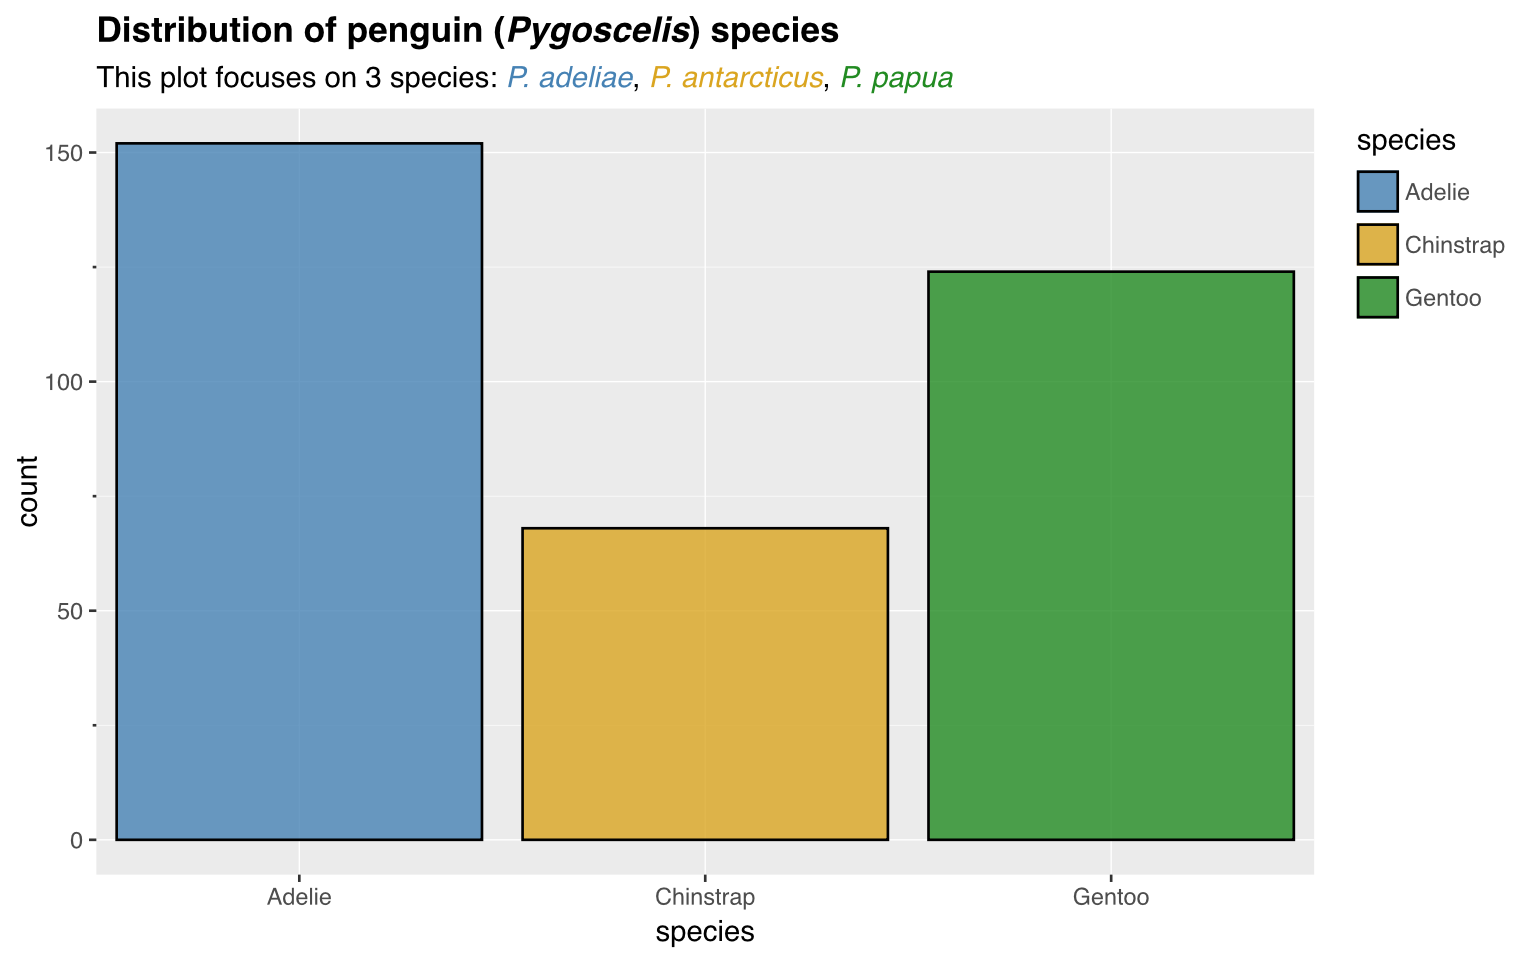
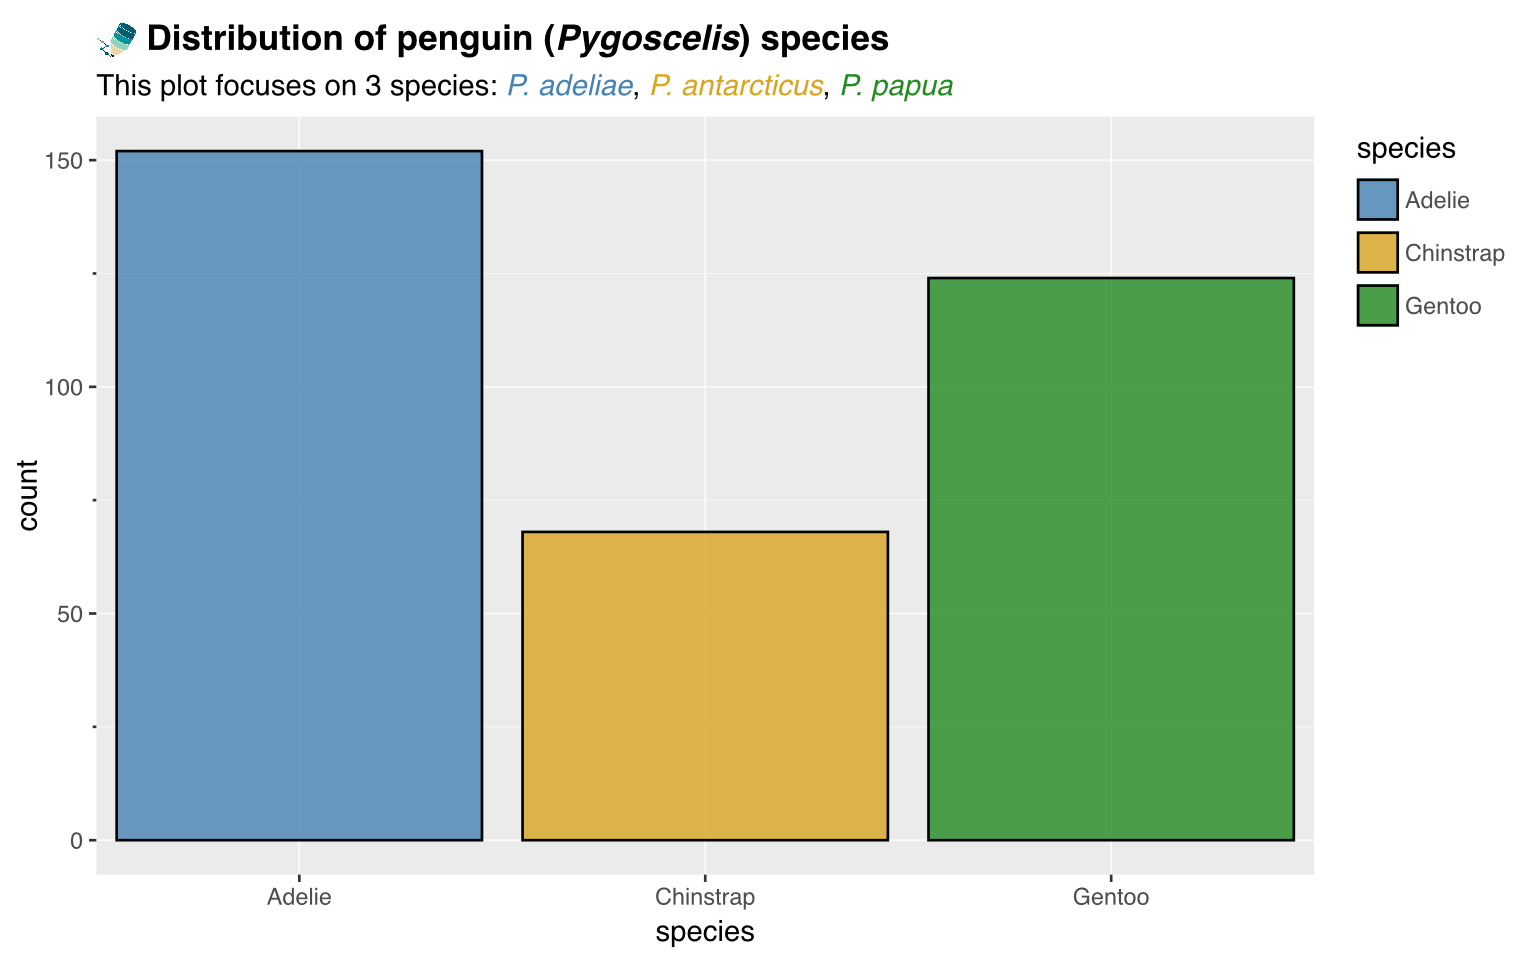
small fixes

diff --git a/content/blog/ggsql_0_5_0/index.md b/content/blog/ggsql_0_5_0/index.md
@@ -83,11 +83,12 @@ Text is important in data visualizations. This position should come as no surpri
 By default, markdown parsing is turned on in all titles and labels, but not in break values. Once we settle on a theming system this will all be configurable, though. Lastly, markdown parsing can also be turned on for the text layer by setting `parse => true`. The markdown is heavily inspired by the flavor I developed in the R marquee package. This means that everything you expect from standard markdown is available, plus a number of enhanced features:
 
 - *Italic* (`*`), **Bold** (`**`), <u>Underline</u> (`_`), <span data-text-decoration="line-through">Strikethrough</span> (`~~`), <sub>Subset</sub> (`~`), <sup>Superset</sup> (`^`), `code` (`` ` ``), [Links](#rich-text-support-through-extended-markdown) (`[text](url)`)
-- Headings 1-6 (`#` - `######`)
+- Headings 1 --- 6 (`#` --- `######`)
 - Quote (`>`)
 - Code block (```` ``` ````)
 - Bullet lists and numbered lists (`-` or `*` for former, `1.` for latter)
 - Horizontal lines (`* * *`)
+- Images (`![alt text](url)`)
 
 From marquee it gains the support for ad-hoc coloring and sizing through the custom span syntax: `{.red I'm colored red}` and `{#0000FF I'm colored blue}` allows for named and hex-encoded colors to be set on a piece of text, and `{.40 I have big letters}` lets you set a font size on the fly. The customization provided by the writer goes even deeper but again, the bottleneck right now is the theming system, not the renderer. Let's see it all in action:
 
@@ -96,7 +97,7 @@ VISUALIZE species AS fill, species AS x FROM ggsql:penguins
 DRAW bar
 SCALE fill TO ('steelblue', 'goldenrod', 'forestgreen')
 LABEL 
-  title => 'Distribution of penguin (*Pygoscelis*) species',
+  title => '![](logo.png) Distribution of penguin (*Pygoscelis*) species',
   subtitle => 'This plot focuses on 3 species: {.steelblue *P. adeliae*}, {.goldenrod *P. antarcticus*}, {.forestgreen *P. papua*}'
 ```
 
@@ -107,7 +108,8 @@ LABEL
 A small but clear deficiency of Vega-Lite was the lack of support for captions. Captions are often used to provide source information for the data, so that it travels along with the visualization:
 
 ``` ggsql
-VISUALIZE species AS fill, bill_dep AS x, bill_len AS y FROM ggsql:penguins
+FROM ggsql:penguins
+VISUALIZE species AS fill, bill_dep AS x, bill_len AS y 
 DRAW point
 LABEL 
   caption => 'Data source: [Gorman KB *et al.*](www.doi.org/10.1371/journal.pone.0090081)'
@@ -122,7 +124,8 @@ A render-specific side note. If you export the above to either SVG or PDF the in
 Visible, but ignored in the two preceding examples is the appearance of minor breaks in the output. This concept doesn't exist in Vega-Lite and we have thus waited for a new renderer to turn it on. The interface is much like the major breaks: provide a count or an array of exact locations for the minor break to appear:
 
 ``` ggsql
-VISUALIZE species AS fill, bill_dep AS x, body_mass AS y FROM ggsql:penguins
+FROM ggsql:penguins
+VISUALIZE species AS fill, bill_dep AS x, body_mass AS y 
 DRAW point
 SCALE x
   SETTING minor_breaks => 3
